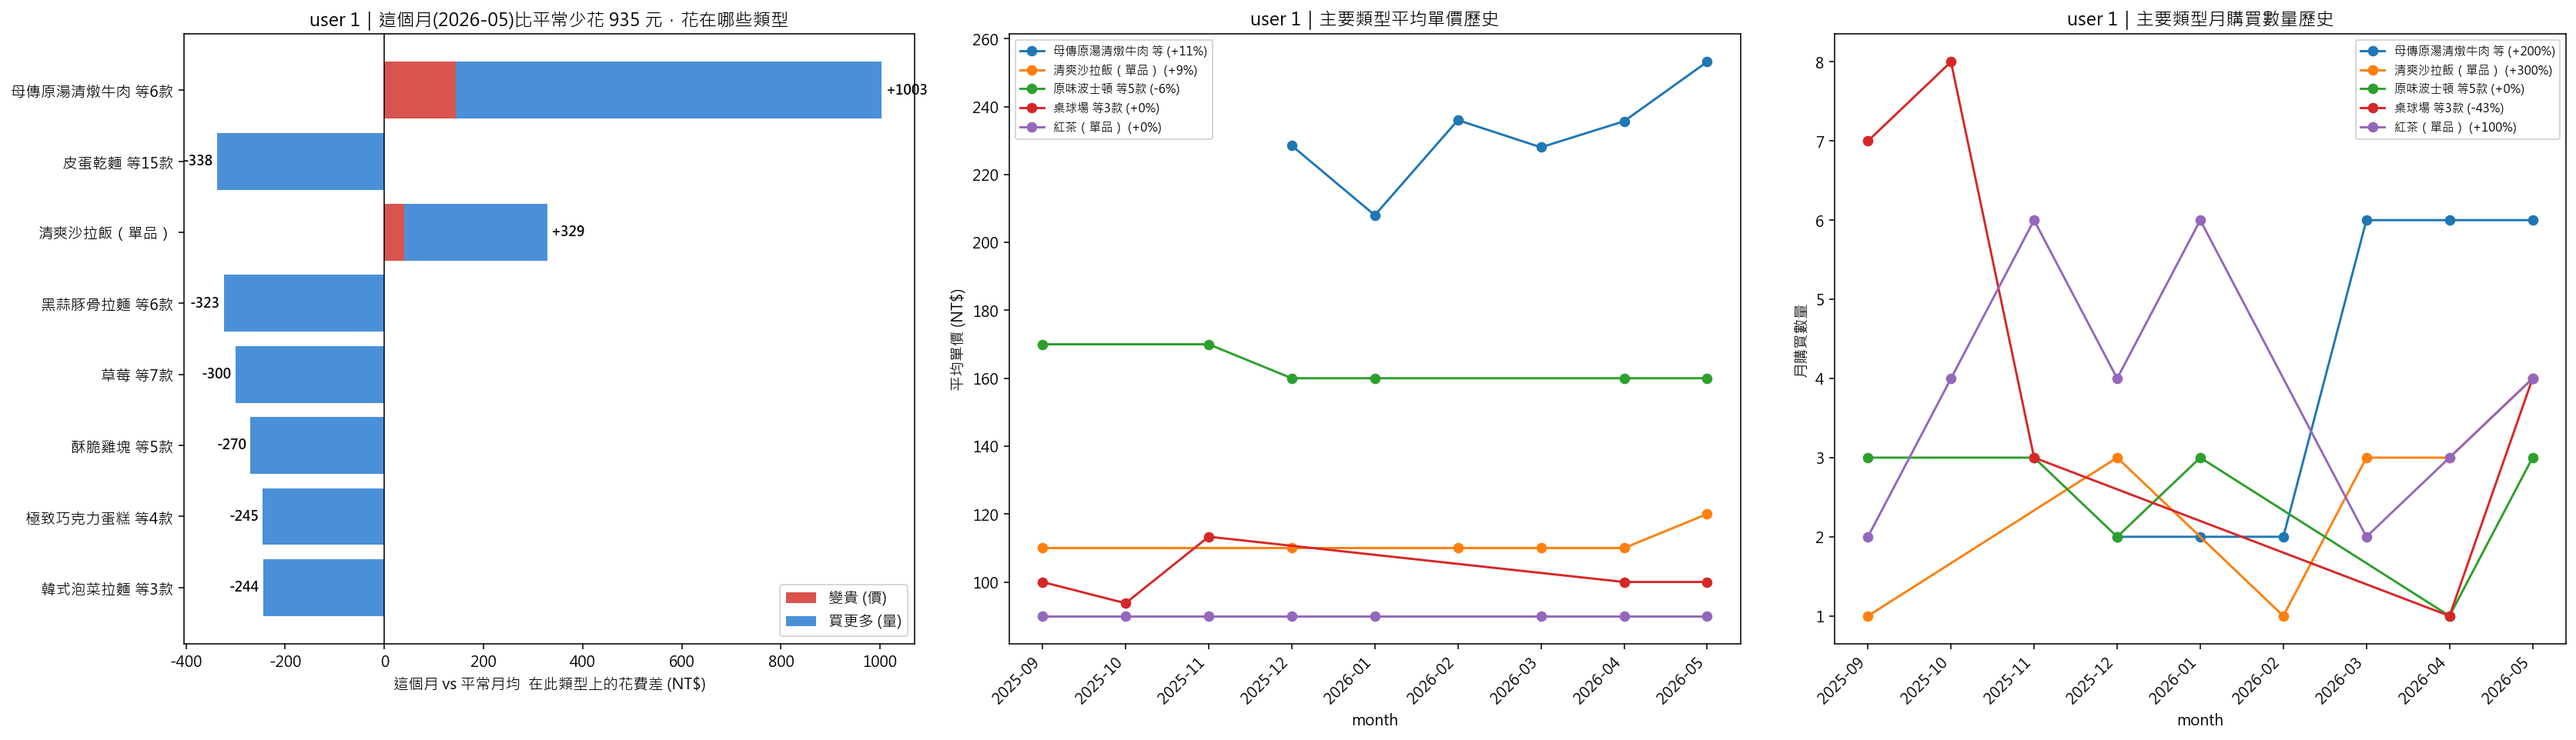
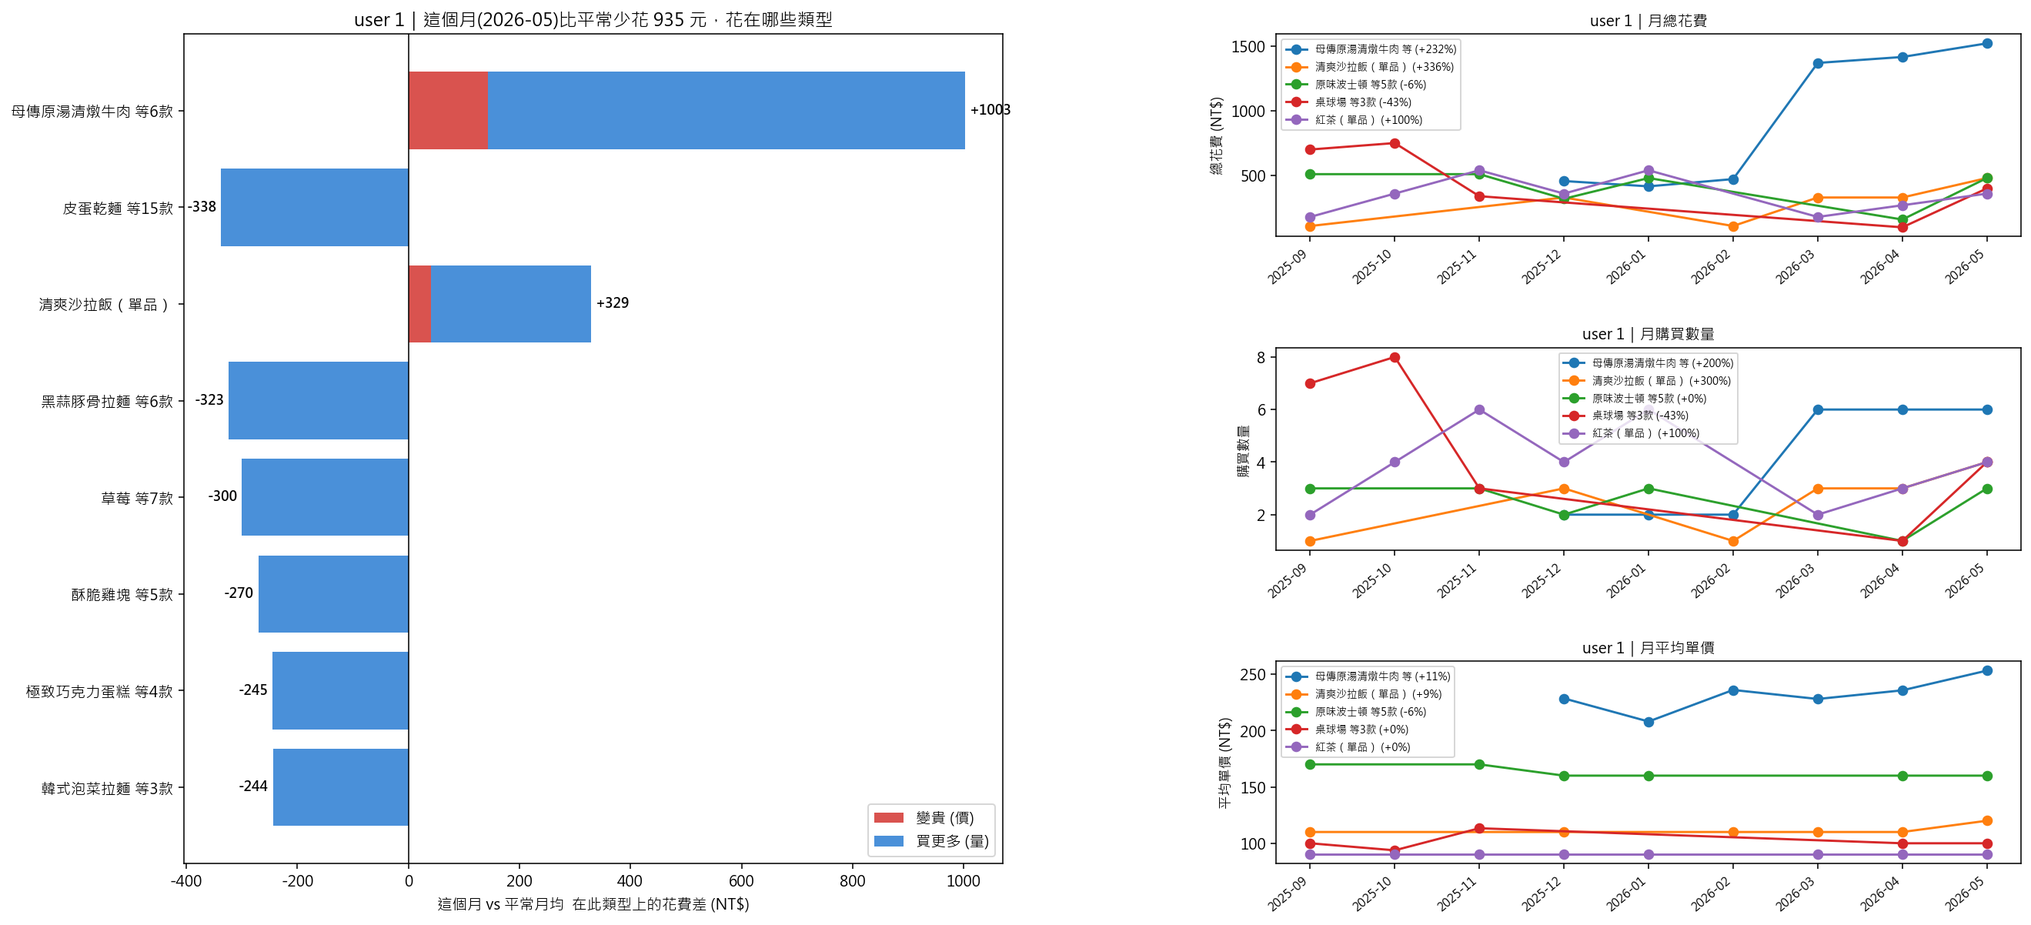
revamp line charts: 3 panels (total spend, quantity, avg unit price)

diff --git a/member_c/step3c_personal_inflation.py b/member_c/step3c_personal_inflation.py
@@ -166,9 +166,15 @@ def plot_user(u, dec, sub, cur, n_base, total_extra, path):
     import matplotlib
     matplotlib.use("Agg")
     import matplotlib.pyplot as plt
+    import matplotlib.gridspec as gridspec
     set_font()
 
-    fig, (ax1, ax2, ax3) = plt.subplots(1, 3, figsize=(24, 7))
+    fig = plt.figure(figsize=(22, 10))
+    gs = gridspec.GridSpec(3, 2, width_ratios=[1.1, 1], hspace=0.55, wspace=0.35)
+    ax1 = fig.add_subplot(gs[:, 0])   # 左欄：增量拆解（佔全高）
+    ax2 = fig.add_subplot(gs[0, 1])   # 右上：總花費
+    ax3 = fig.add_subplot(gs[1, 1])   # 右中：總數量
+    ax4 = fig.add_subplot(gs[2, 1])   # 右下：平均單價
 
     # --- 左：增量拆解（變貴 vs 買更多）---
     top = dec.reindex(dec["delta_spend"].abs().sort_values(ascending=False).index).head(TOP_BREAKDOWN)
@@ -187,45 +193,41 @@ def plot_user(u, dec, sub, cur, n_base, total_extra, path):
     ax1.set_title(f"user {u}｜這個月({cur})比平常{sign} {abs(total_extra):.0f} 元，花在哪些類型")
     ax1.legend(loc="lower right")
 
+    # 準備右側折線圖資料
     top_spend = dec.reindex(dec["current_spend"].sort_values(ascending=False).index).head(TOP_HISTORY)
     topic_list = top_spend["topic"].tolist()
     label_map = dict(zip(dec["topic"], dec["type_label"]))
     all_months = sorted(sub["month"].unique())
     mpos = {m: i for i, m in enumerate(all_months)}
-    xticks = range(len(all_months))
+    xticks = list(range(len(all_months)))
     xlabels = [str(m) for m in all_months]
 
-    # --- 中：平均單價成長歷史（價格/數量）---
-    ts = monthly_unit_price(sub, topic_list)
-    for t in topic_list:
-        d = ts[ts["topic"] == t].sort_values("month")
-        if len(d) < 2:
-            continue
-        first, last = d["unit_price"].iloc[0], d["unit_price"].iloc[-1]
-        chg = (last / first - 1) * 100 if first else 0
-        lab = f"{str(label_map[t])[:10]} ({chg:+.0f}%)"
-        ax2.plot([mpos[m] for m in d["month"]], d["unit_price"].values, marker="o", label=lab)
-    ax2.set_xticks(xticks); ax2.set_xticklabels(xlabels, rotation=45, ha="right")
-    ax2.set_xlabel("month"); ax2.set_ylabel("平均單價 (NT$)")
-    ax2.set_title(f"user {u}｜主要類型平均單價歷史")
-    ax2.legend(fontsize=8, loc="best")
+    # 一次聚合三個指標
+    s = sub[sub["topic"].isin(topic_list)]
+    g = s.groupby(["topic", "month"]).agg(
+        amt=(cc.COL_AMT, "sum"),
+        qty=(cc.COL_QTY, "sum")
+    ).reset_index()
+    g["unit_price"] = g["amt"] / g["qty"]
 
-    # --- 右：月購買數量歷史 ---
-    tq = monthly_qty(sub, topic_list)
-    for t in topic_list:
-        d = tq[tq["topic"] == t].sort_values("month")
-        if len(d) < 2:
-            continue
-        first, last = d["qty"].iloc[0], d["qty"].iloc[-1]
-        chg = (last / first - 1) * 100 if first else 0
-        lab = f"{str(label_map[t])[:10]} ({chg:+.0f}%)"
-        ax3.plot([mpos[m] for m in d["month"]], d["qty"].values, marker="o", label=lab)
-    ax3.set_xticks(xticks); ax3.set_xticklabels(xlabels, rotation=45, ha="right")
-    ax3.set_xlabel("month"); ax3.set_ylabel("月購買數量")
-    ax3.set_title(f"user {u}｜主要類型月購買數量歷史")
-    ax3.legend(fontsize=8, loc="best")
+    def draw_line(ax, col, ylabel, title):
+        for t in topic_list:
+            d = g[g["topic"] == t].sort_values("month")
+            if len(d) < 2:
+                continue
+            first, last = d[col].iloc[0], d[col].iloc[-1]
+            chg = (last / first - 1) * 100 if first else 0
+            lab = f"{str(label_map[t])[:10]} ({chg:+.0f}%)"
+            ax.plot([mpos[m] for m in d["month"]], d[col].values, marker="o", label=lab)
+        ax.set_xticks(xticks); ax.set_xticklabels(xlabels, rotation=40, ha="right", fontsize=8)
+        ax.set_ylabel(ylabel, fontsize=9)
+        ax.set_title(title, fontsize=10)
+        ax.legend(fontsize=7, loc="best")
 
-    fig.tight_layout()
+    draw_line(ax2, "amt",        "總花費 (NT$)",   f"user {u}｜月總花費")
+    draw_line(ax3, "qty",        "購買數量",        f"user {u}｜月購買數量")
+    draw_line(ax4, "unit_price", "平均單價 (NT$)", f"user {u}｜月平均單價")
+
     fig.savefig(path, dpi=140, bbox_inches="tight")
     plt.close(fig)
 
